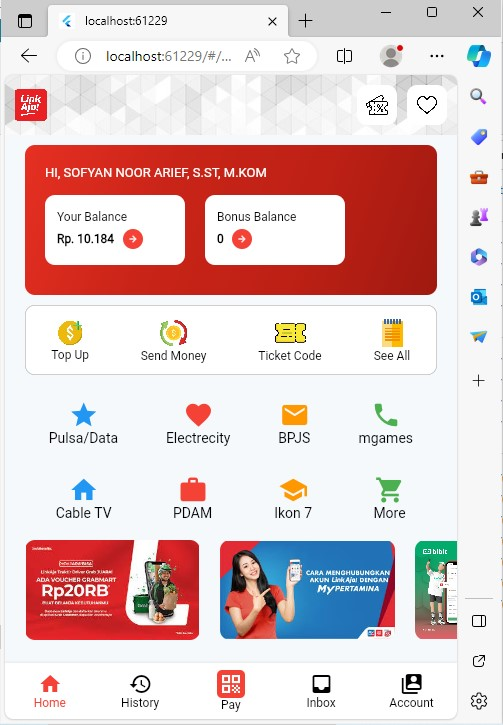
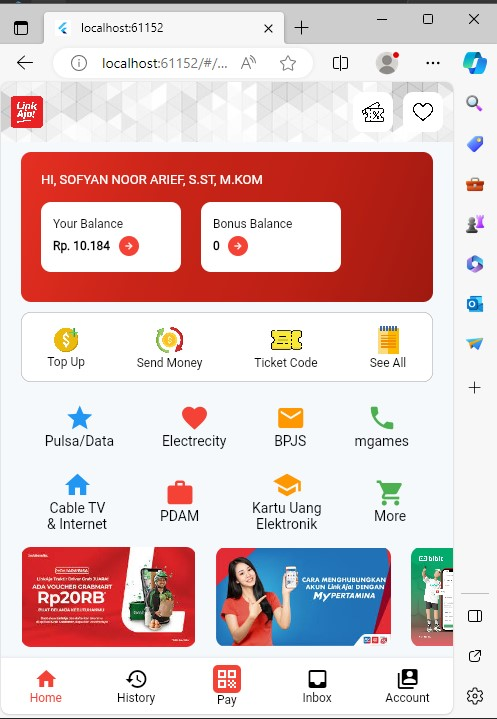
progress 3 fix

diff --git a/UTS/uts/lib/app/widgets/homepage.dart b/UTS/uts/lib/app/widgets/homepage.dart
@@ -415,6 +415,13 @@ class HomePage extends StatelessWidget {
                                 fontSize: 14,
                               ),
                             ),
+                            Text(
+                              '& Internet',
+                              style: TextStyle(
+                                color: Colors.black,
+                                fontSize: 14,
+                              ),
+                            ),
                           ],
                         ),
                         Column(
@@ -441,7 +448,14 @@ class HomePage extends StatelessWidget {
                               size: 30,
                             ),
                             Text(
-                              'Ikon 7',
+                              'Kartu Uang',
+                              style: TextStyle(
+                                color: Colors.black,
+                                fontSize: 14,
+                              ),
+                            ),
+                            Text(
+                              'Elektronik',
                               style: TextStyle(
                                 color: Colors.black,
                                 fontSize: 14,
